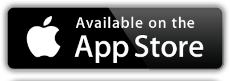
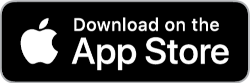
Added iOS app

diff --git a/docs/downloads.html b/docs/downloads.html
@@ -276,7 +276,7 @@
           Does not support direct connection to USB devices. Recommended for remote control of other niliBOX installations.<br><br>
         </td></tr>
         <tr><td style="text-align:center;">
-          <a href=""><img src="apple-store.png" style="cursor: pointer;"></a>
+          <a href="https://apps.apple.com/us/app/nilibox/id6740749067"><img src="apple-store.png" style="cursor: pointer;"></a>
         </td></tr>
       </table>
     </div>
